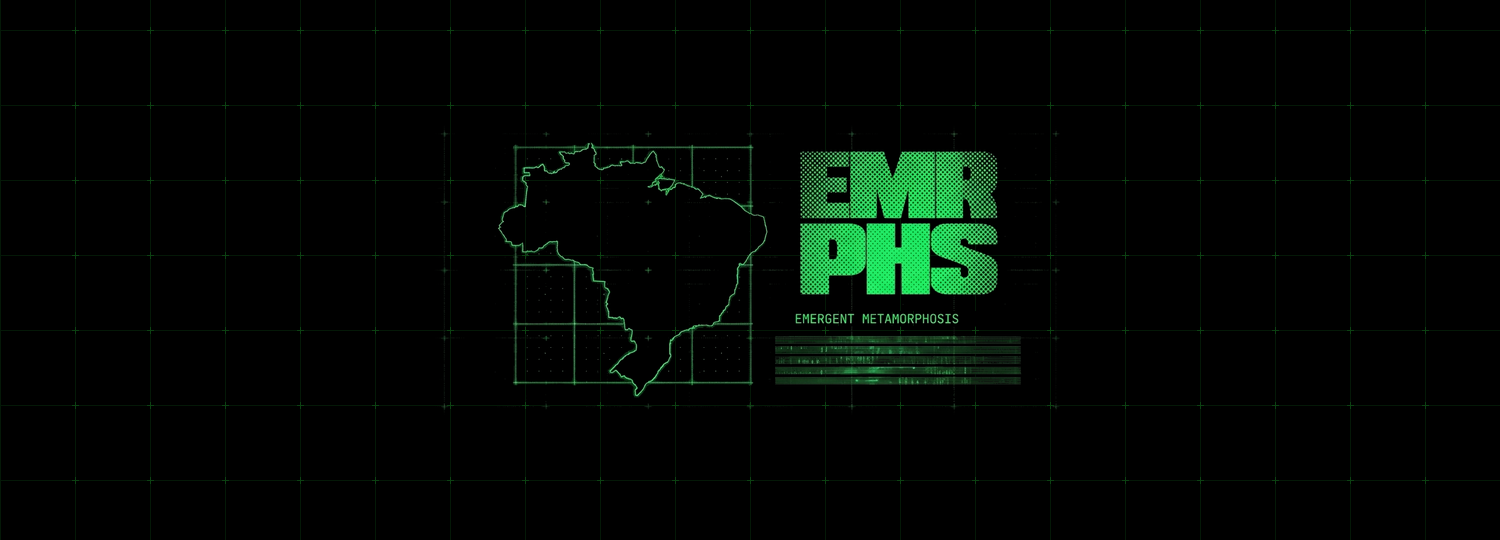
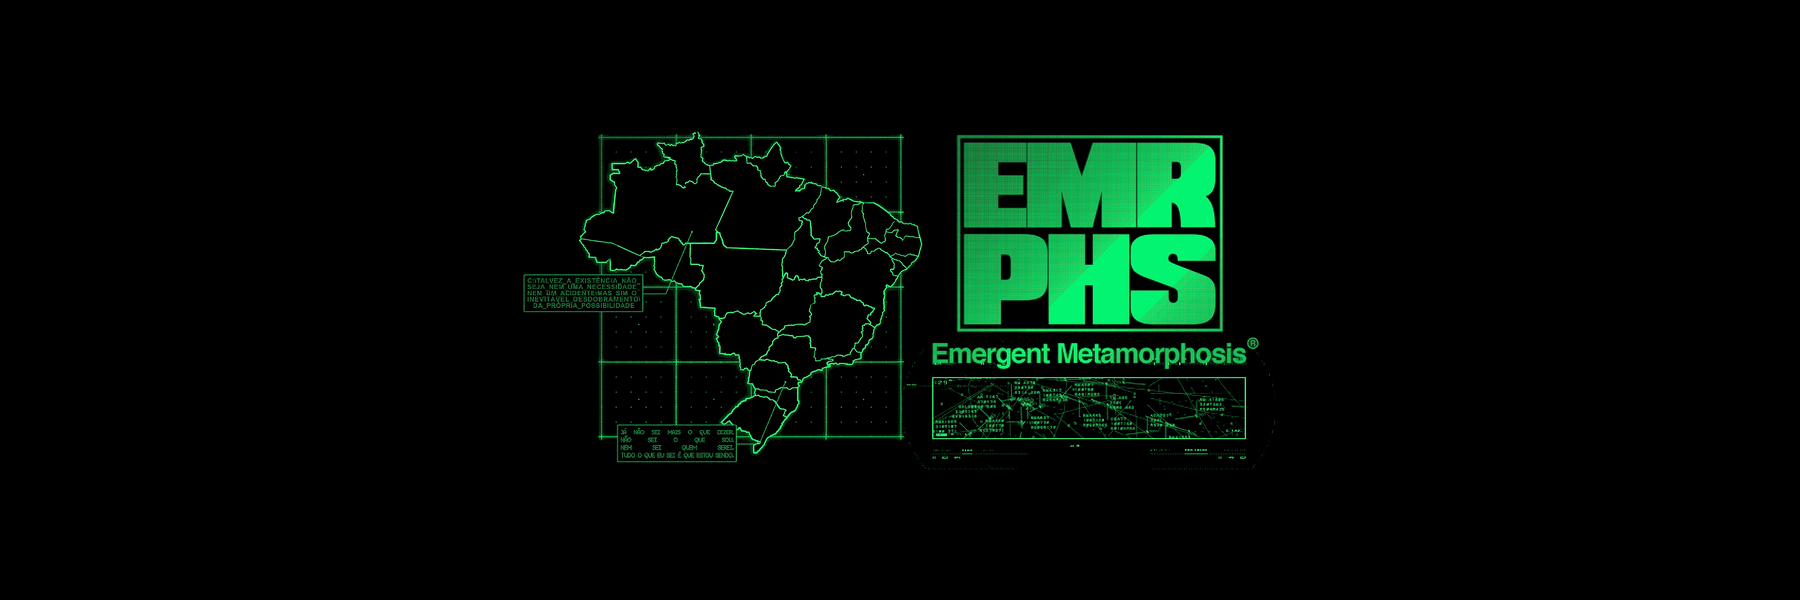
style(notion): usar arte oficial home-bg.png na capa do Notion

Changed region(s): [[0.276, 0.2074, 0.7053, 0.7704]]

diff --git a/DEVLOG.md b/DEVLOG.md
@@ -7,6 +7,18 @@ Mantido separado do [GEMINI.md](./GEMINI.md) para respeitar o limite de `24.000`
 
 ---
 
+## [2026-11-19] — Capa Oficial do Site (`home-bg.png`) Aplicada no Notion
+**Responsável:** Filipe (+ Antigravity)
+**Arquivos principais:** `docs/notion_assets/notion-cover.png`, `DEVLOG.md`
+
+### O que mudou
+- Substituída a capa anterior em `docs/notion_assets/notion-cover.png` pela arte oficial de fundo do site (`assets/img/home-bg.png`), enquadrada em canvas `#000000` de `1800×600` (faixa central `753×340`) para evitar corte no cabeçalho horizontal do Notion.
+
+### Contexto / Porquê
+- Utilizar diretamente a arte real da página inicial (`H0M3`) no Notion em vez de uma variação gerada.
+
+---
+
 ## [2026-11-19] — Reestruturação Multi-Página do Notion (`EMORPHOSIS` -> `Desenvolvimento`) & Remoção de AI Slop
 **Responsável:** Filipe (+ Antigravity)
 **Arquivos principais:** `docs/notion_assets/notion-cover.png`, `scripts/notion_hub.py`, `scripts/test_notion_hub.py`, `.env.example`, `docs/NOTION_HUB_SETUP.md`, `.agents/skills/emorphosis-notion-hub/SKILL.md`
